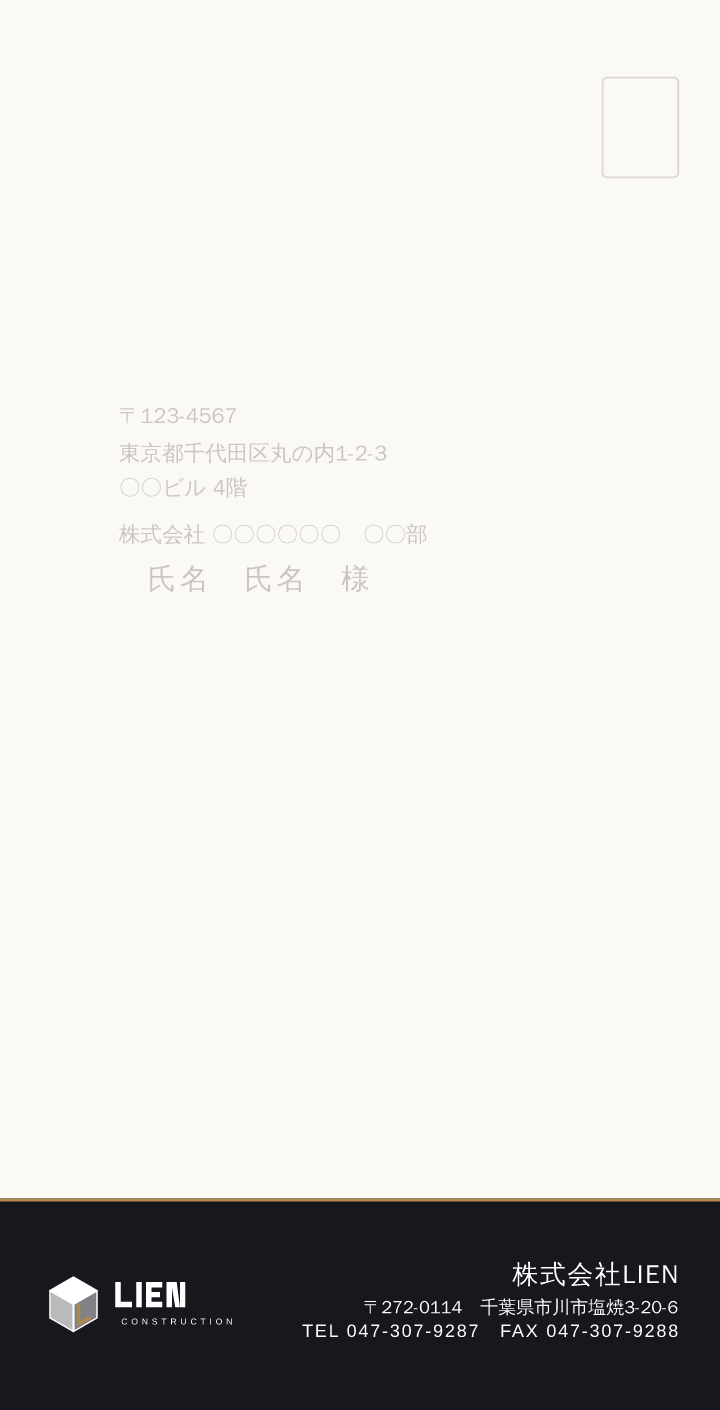
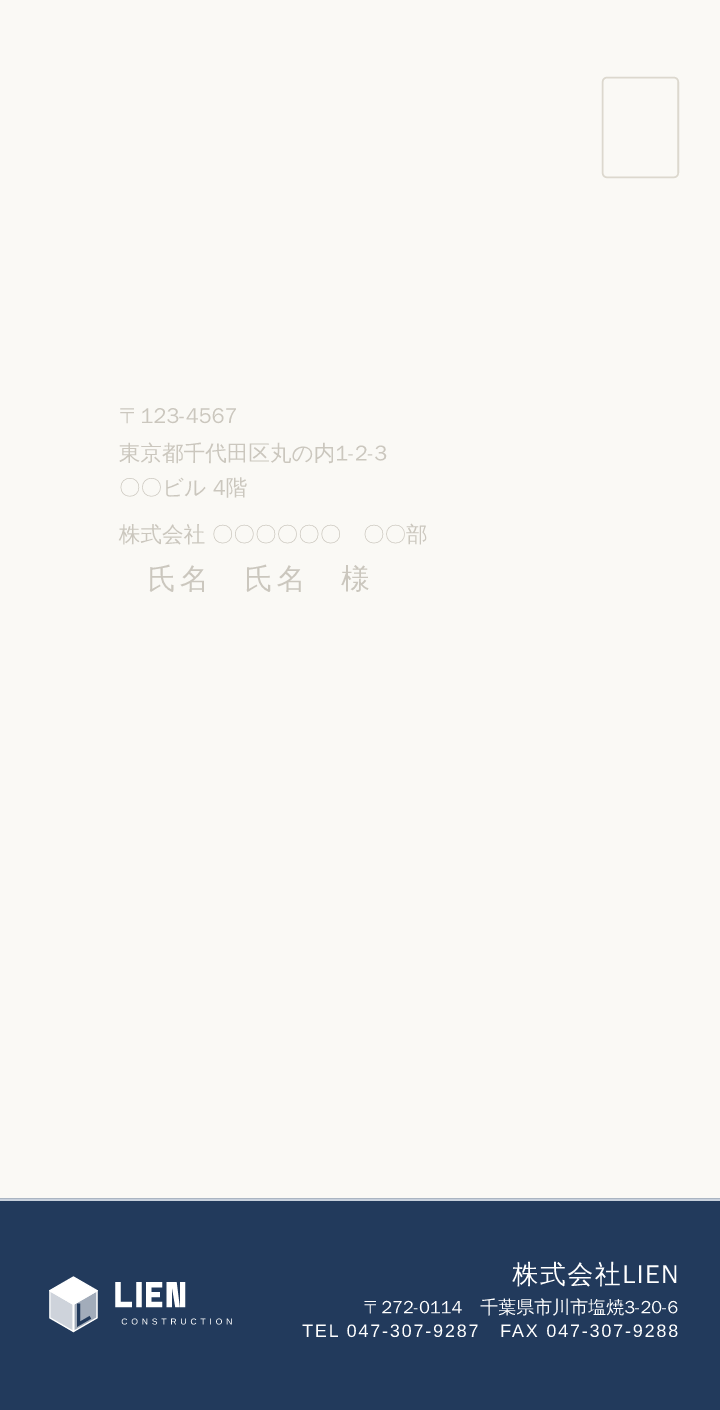
Switch LIEN brand to navy scheme; finalize Concept B
- Accent changed from brass to a refined navy (#223A5C): footer band,
  rules and cube faces now navy-family; inlaid "L" flips tone per context
  (light steel on color, navy on white knockout) to keep contrast
- Concept B (footer band) selected as the production direction for both
  角2号 and 長形3号; added preview/conceptB-final.png
- README updated with the navy palette and chosen direction

https://claude.ai/code/session_01MJaxTknHng2Rk6VQiM6LMA

Changed region(s): [[0.0, 0.8426, 1.0, 1.0]]

diff --git a/design/README.md b/design/README.md
@@ -4,6 +4,10 @@
 **ロゴ（ベクター版）** 一式です。差出人情報を封筒下部にまとめ、3つのコンセプトで
 ご用意しています。
 
+> **本制作の方向性**: **Concept B（フッターバンド）＋ ネイビー基調** を採用。
+> 仕上げ提示は `preview/conceptB-final.png` を参照してください。
+> （他案・モノクロ等も同じネイビー配色で生成済みです）
+
 ---
 
 ## 1. 封筒デザイン 3コンセプト
@@ -12,8 +16,8 @@
 
 | 案 | 名称 | 特徴 |
 |----|------|------|
-| **A** | ミニマル・ライン | 余白を活かした上品な構成。細いブラスのラインの下にロゴと差出人情報。控えめで知的な印象。 |
-| **B** | フッターバンド | 下部に墨色の帯。白抜きロゴ＋ブラスの極細ライン。力強くモダンで視認性が高い。 |
+| **A** | ミニマル・ライン | 余白を活かした上品な構成。細いネイビーのラインの下にロゴと差出人情報。控えめで知的な印象。 |
+| **B** | フッターバンド（採用） | 下部に深いネイビーの帯。白抜きロゴ＋スチールの極細ライン。力強くモダンで視認性が高い。 |
 | **C** | アーキテクチャル・スパイン | 左の柱＋下の帯で「L字」を構成。建設業らしい構造感とロゴの“L”が呼応する象徴的なデザイン。 |
 
 プレビュー（宛名スペースのガイド入り）:
@@ -35,7 +39,8 @@
 
 既存のメタリックなロゴ（`public/lien_logo_master.png`）を、封筒や書類などの
 **印刷で美しく出る平面（1〜2色）ベクター**として描き起こしたものです。
-立体キューブの暗い面に**ブラスの「L」を象嵌**し、社名 LIEN の頭文字と
+立体キューブの面に**「L」を象嵌**（カラー版は濃紺の面に明るいスチール、白抜き版は
+白い面に紺＝陰陽反転で常にコントラストを確保）し、社名 LIEN の頭文字と
 “連結＝絆（LIEN）”の構造を表現しています。
 
 | ファイル | 用途 |
@@ -54,10 +59,14 @@
 
 | 役割 | 色 | HEX | 印刷の目安 |
 |------|----|-----|-----------|
-| インク（主色） | 墨黒 | `#16181D` | K100 もしくはリッチブラック |
-| アクセント | ブラス（真鍮） | `#B0894A` | DIC/Pantone 近似のゴールド系。**金箔押し**も好相性 |
-| 面・グレー | スティール | `#5C636D` / `#DCDFE3` | グレースケール |
+| 主色／アクセント | ネイビー | `#223A5C` | C90 M75 Y40 K30 前後の濃紺。フッターバンド・罫線 |
+| キューブ濃面 | ディープネイビー | `#19293F` | 立体の最暗面 |
+| キューブ中面 | スチールネイビー | `#3C5275` | 立体の中間面 |
+| ハイライト／細線 | ライトスチール | `#C7D0DC` | 帯上の極細ライン・象嵌のL |
+| 文字（黒） | 墨黒 | `#16181D` | K100 もしくはリッチブラック |
 | 用紙 | 温かみのある白 | `#FAF9F5` | ナチュラル系の封筒用紙を想定 |
+
+> 配色はネイビー基調。よりコストを抑える場合は墨1色（`*-mono.svg`）でも展開できます。
 
 - **ワードマーク（LIEN）はアウトライン化**しているため、フォント環境に依存しません。
 - 和文（社名・住所）プレビューは IPA ゴシック。最終データでは
